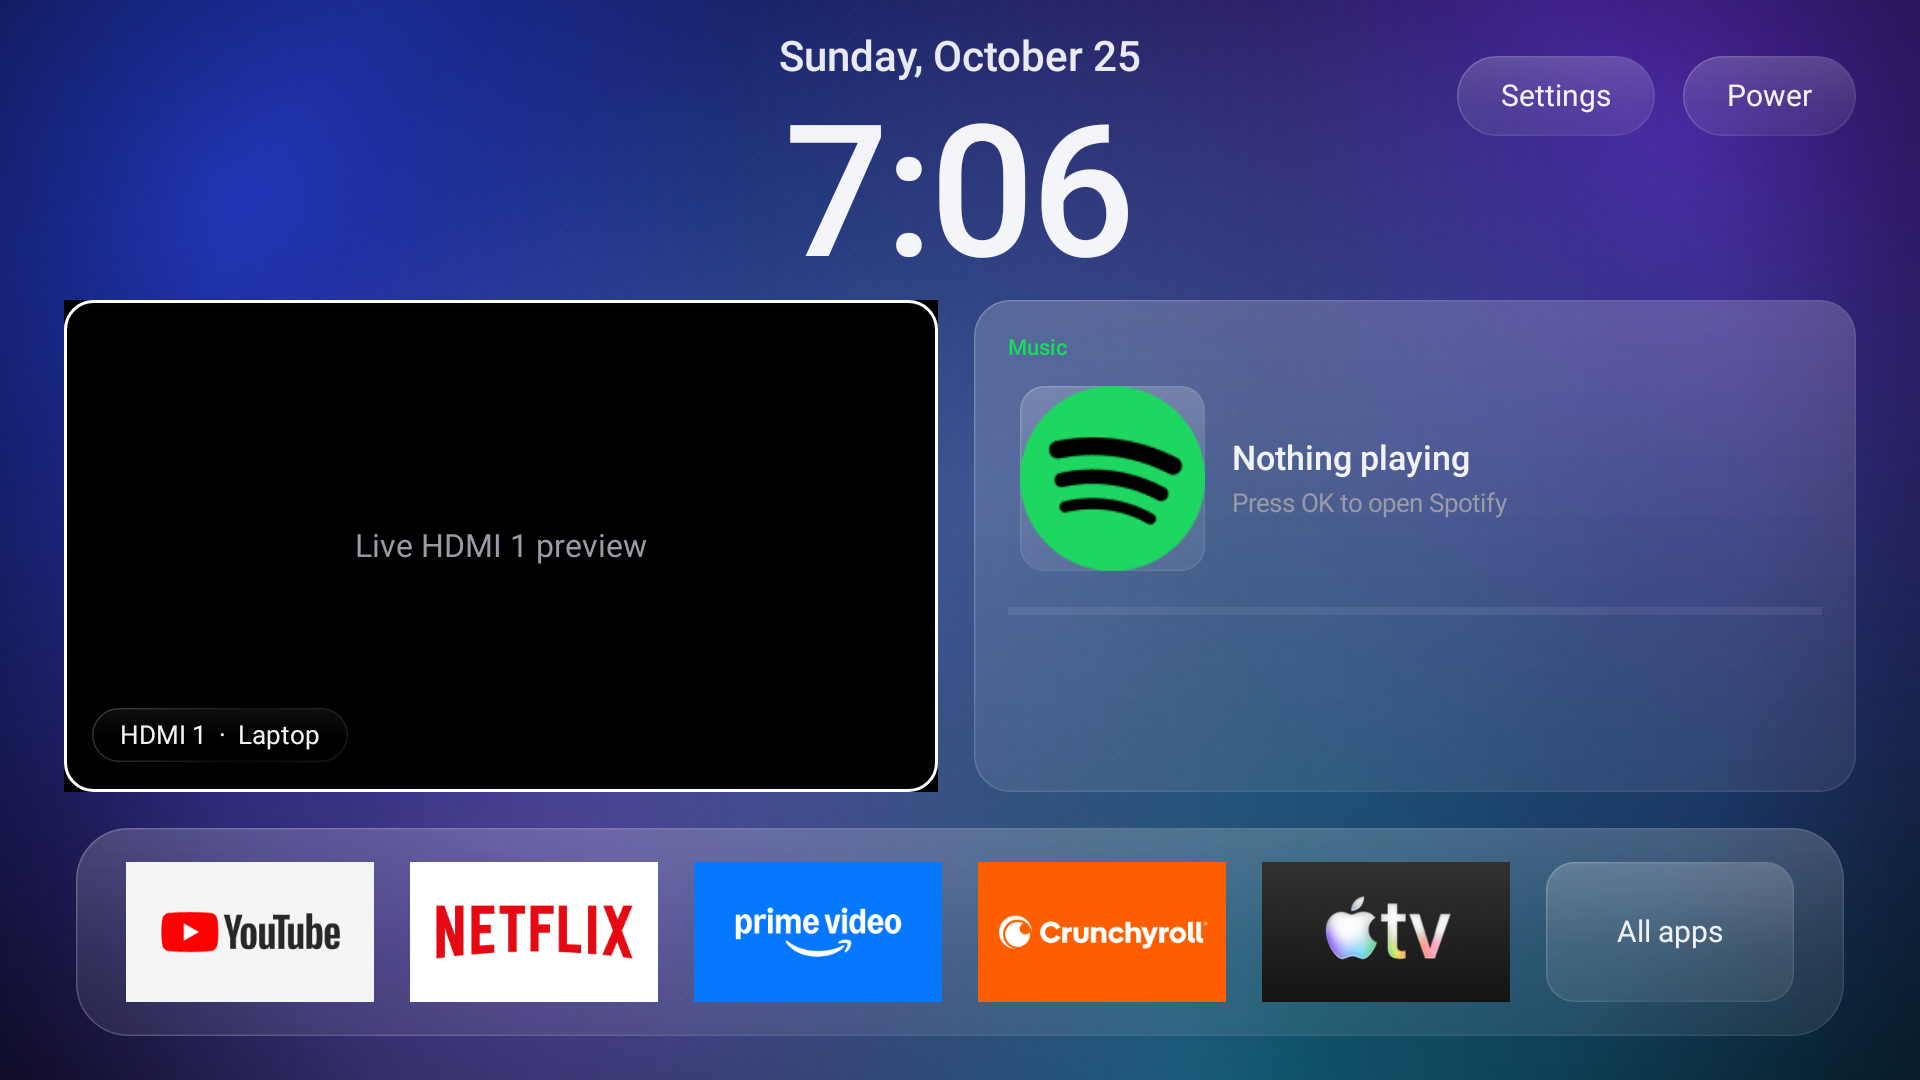
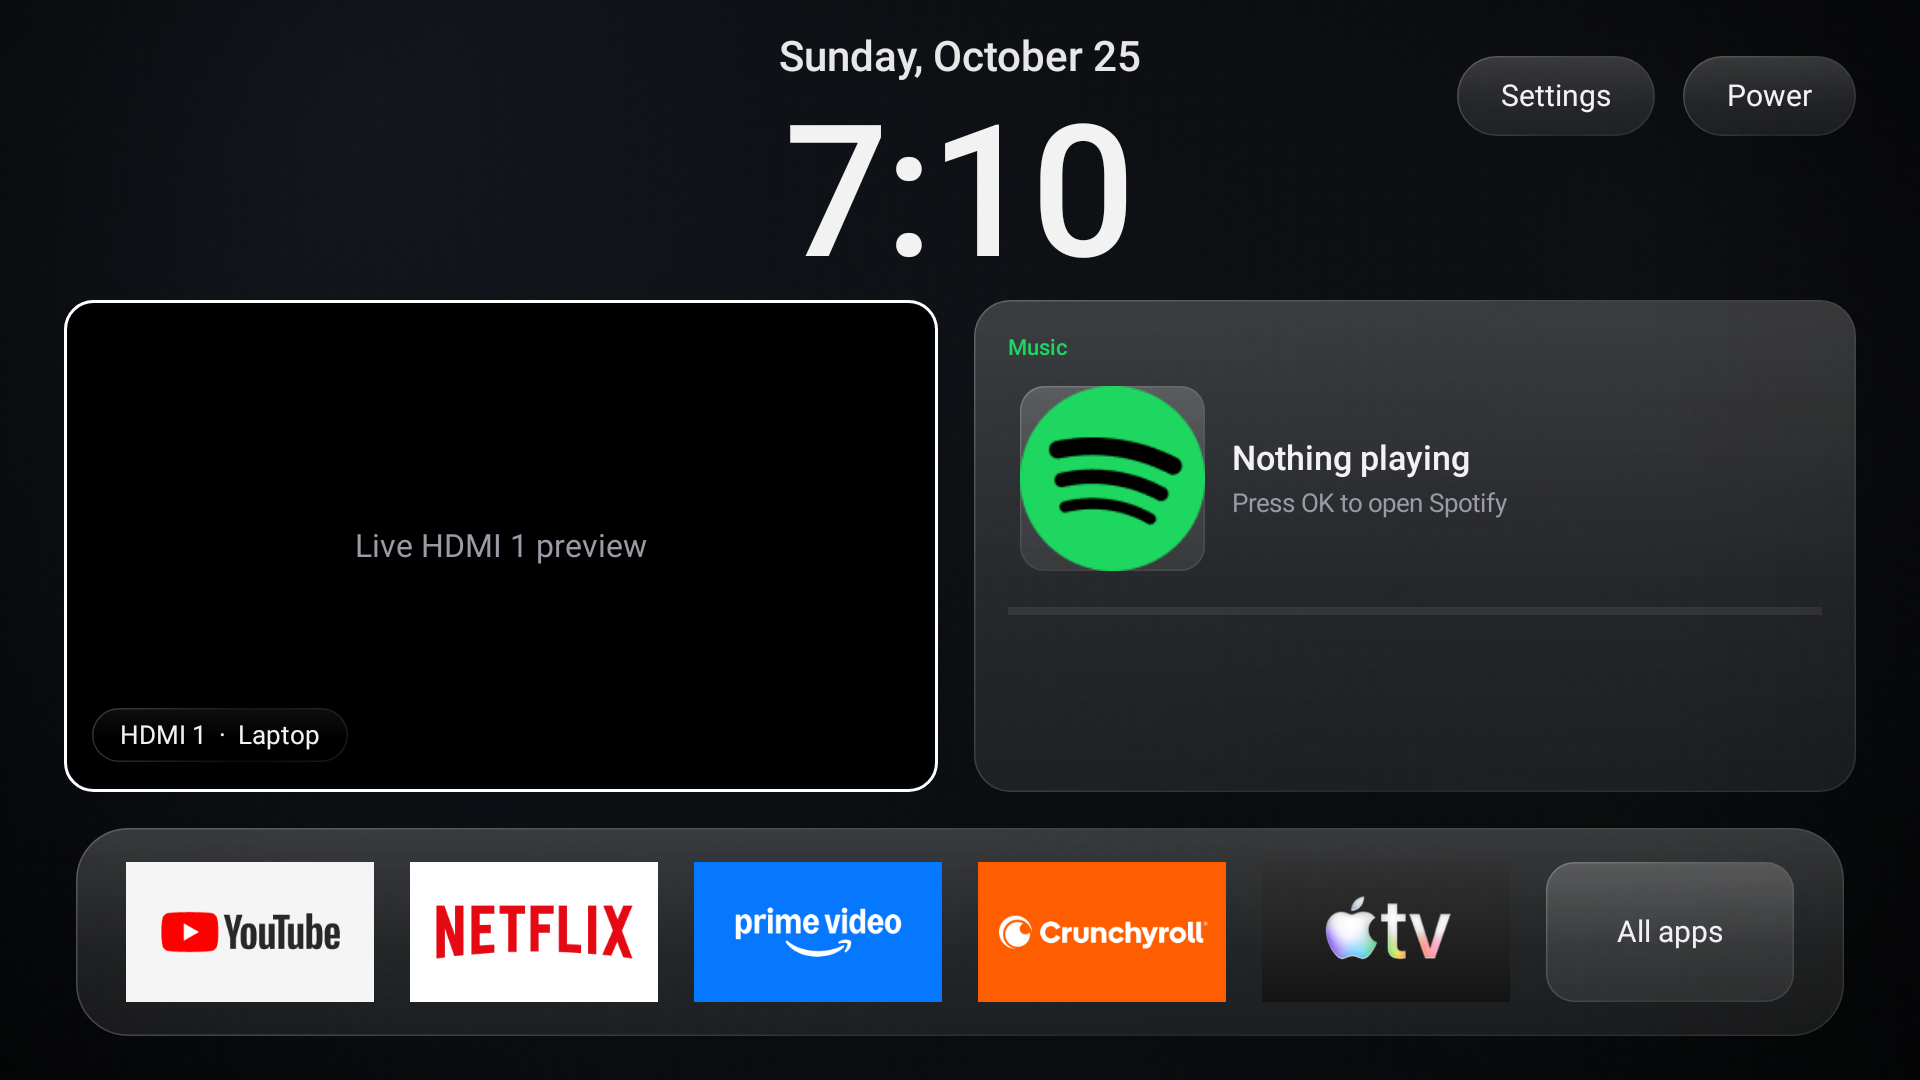
Dark gradient background and rounded HDMI preview
- Background is now near-black with a faint cool-grey glow instead of the
  blue-violet aurora.
- The live HDMI preview gets rounded corners: Android 10 can't clip a video
  surface, so a CornerMask view repaints the background over its corners.
- README screenshot updated.

diff --git a/launcher/src/dev/tvhome/launcher/Glass.java b/launcher/src/dev/tvhome/launcher/Glass.java
@@ -21,9 +21,9 @@ import android.graphics.drawable.Drawable;
 final class Glass {
     private Glass() {}
 
-    static final int NAVY = 0xFF060818;
+    static final int BASE = 0xFF040506;
 
-    /** Deep navy with blurred blue / violet / teal light. Rendered once at low resolution. */
+    /** Near-black with a faint cool-grey glow for depth. Rendered once at low resolution. */
     static final class Aurora extends Drawable {
         private final int scrim;
         private final Paint bitmapPaint = new Paint(Paint.FILTER_BITMAP_FLAG | Paint.ANTI_ALIAS_FLAG | Paint.DITHER_FLAG);
@@ -46,16 +46,14 @@ final class Glass {
         private static Bitmap render(int w, int h) {
             Bitmap bmp = Bitmap.createBitmap(w, h, Bitmap.Config.ARGB_8888);
             Canvas c = new Canvas(bmp);
-            c.drawColor(NAVY);
-            blob(c, w * 0.12f, h * 0.18f, w * 0.55f, 0xB02D4BFF); // blue, top left
-            blob(c, w * 0.88f, h * 0.12f, w * 0.50f, 0x9A7A3CFF); // violet, top right
-            blob(c, w * 0.62f, h * 1.00f, w * 0.60f, 0x7A1FB5D6); // teal, bottom
-            blob(c, w * 0.30f, h * 0.85f, w * 0.38f, 0x55C24BE8); // magenta haze
-            blob(c, w * 0.50f, h * 0.45f, w * 0.35f, 0x30A9C4FF); // soft centre light
-            // Vignette so edges stay dark and text stays readable.
+            c.drawColor(BASE);
+            blob(c, w * 0.18f, h * 0.10f, w * 0.60f, 0x4A3A4558); // cool grey light, top left
+            blob(c, w * 0.85f, h * 0.20f, w * 0.45f, 0x2E3C4150); // fainter, top right
+            blob(c, w * 0.55f, h * 1.05f, w * 0.65f, 0x26304048); // slate, low centre
+            // Vignette so the edges fall off to black.
             Paint v = new Paint(Paint.ANTI_ALIAS_FLAG | Paint.DITHER_FLAG);
             v.setShader(new RadialGradient(w / 2f, h / 2f, Math.max(w, h) * 0.75f,
-                    new int[]{0x00000000, 0x00000000, 0x99000000}, new float[]{0f, 0.55f, 1f}, Shader.TileMode.CLAMP));
+                    new int[]{0x00000000, 0x00000000, 0xB3000000}, new float[]{0f, 0.5f, 1f}, Shader.TileMode.CLAMP));
             c.drawRect(0, 0, w, h, v);
             return bmp;
         }
@@ -69,6 +67,43 @@ final class Glass {
         @Override public void setAlpha(int alpha) {}
         @Override public void setColorFilter(ColorFilter cf) {}
         @Override public int getOpacity() { return PixelFormat.OPAQUE; }
+    }
+
+    /**
+     * Rounds the corners of a live video tile. Android 10 can't clip a video surface to a rounded shape,
+     * so this view sits over the tile and repaints the screen background everywhere outside a rounded
+     * rectangle: the four corners. {@code offsetX/Y} is the tile's position on screen, so the background
+     * lines up exactly with the real one behind it.
+     */
+    static final class CornerMask extends android.view.View {
+        private final Aurora background = new Aurora(0);
+        private final Paint clear = new Paint(Paint.ANTI_ALIAS_FLAG);
+        private final RectF hole = new RectF();
+        private final float radius;
+        private final int offsetX, offsetY, screenW, screenH;
+
+        CornerMask(android.content.Context c, float radius, int offsetX, int offsetY, int screenW, int screenH) {
+            super(c);
+            this.radius = radius;
+            this.offsetX = offsetX;
+            this.offsetY = offsetY;
+            this.screenW = screenW;
+            this.screenH = screenH;
+            clear.setXfermode(new android.graphics.PorterDuffXfermode(android.graphics.PorterDuff.Mode.CLEAR));
+        }
+
+        @Override
+        protected void onDraw(Canvas canvas) {
+            int layer = canvas.saveLayer(0, 0, getWidth(), getHeight(), null);
+            canvas.save();
+            canvas.translate(-offsetX, -offsetY);
+            background.setBounds(0, 0, screenW, screenH);
+            background.draw(canvas);
+            canvas.restore();
+            hole.set(0, 0, getWidth(), getHeight());
+            canvas.drawRoundRect(hole, radius, radius, clear); // anti-aliased, so the curve stays smooth
+            canvas.restoreToCount(layer);
+        }
     }
 
     /** Frosted panel: translucent fill, top sheen, and a bright-to-faint edge. */

diff --git a/launcher/src/dev/tvhome/launcher/HomeActivity.java b/launcher/src/dev/tvhome/launcher/HomeActivity.java
@@ -236,6 +236,10 @@ public class HomeActivity extends Activity {
     }
 
     private void buildTile() {
+        // Rounded corners for the live picture, matching the tile's rounded frame.
+        content.addView(new Glass.CornerMask(this, dp(14), tileRect.left, tileRect.top, screenW, screenH),
+                Ui.at(tileRect.left, tileRect.top, tileRect.width(), tileRect.height()));
+
         tileFocus = new View(this);
         tileFocus.setBackground(Ui.ring(0x1AFFFFFF, Math.max(1, dp(0.75f)), dp(14)));
         Ui.focusable(tileFocus, dp(14), false);
